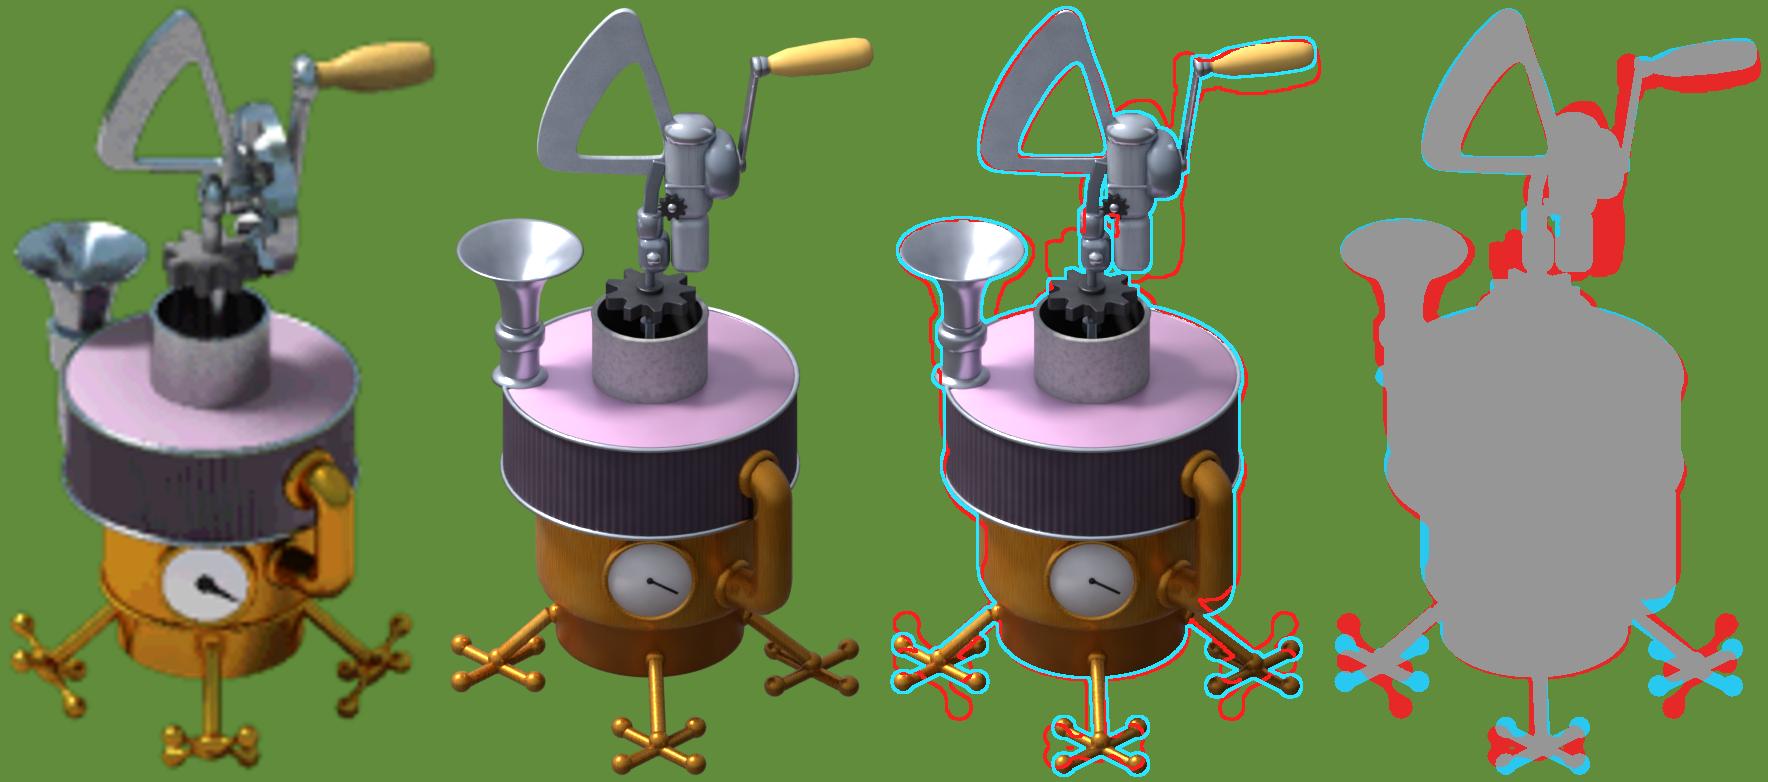
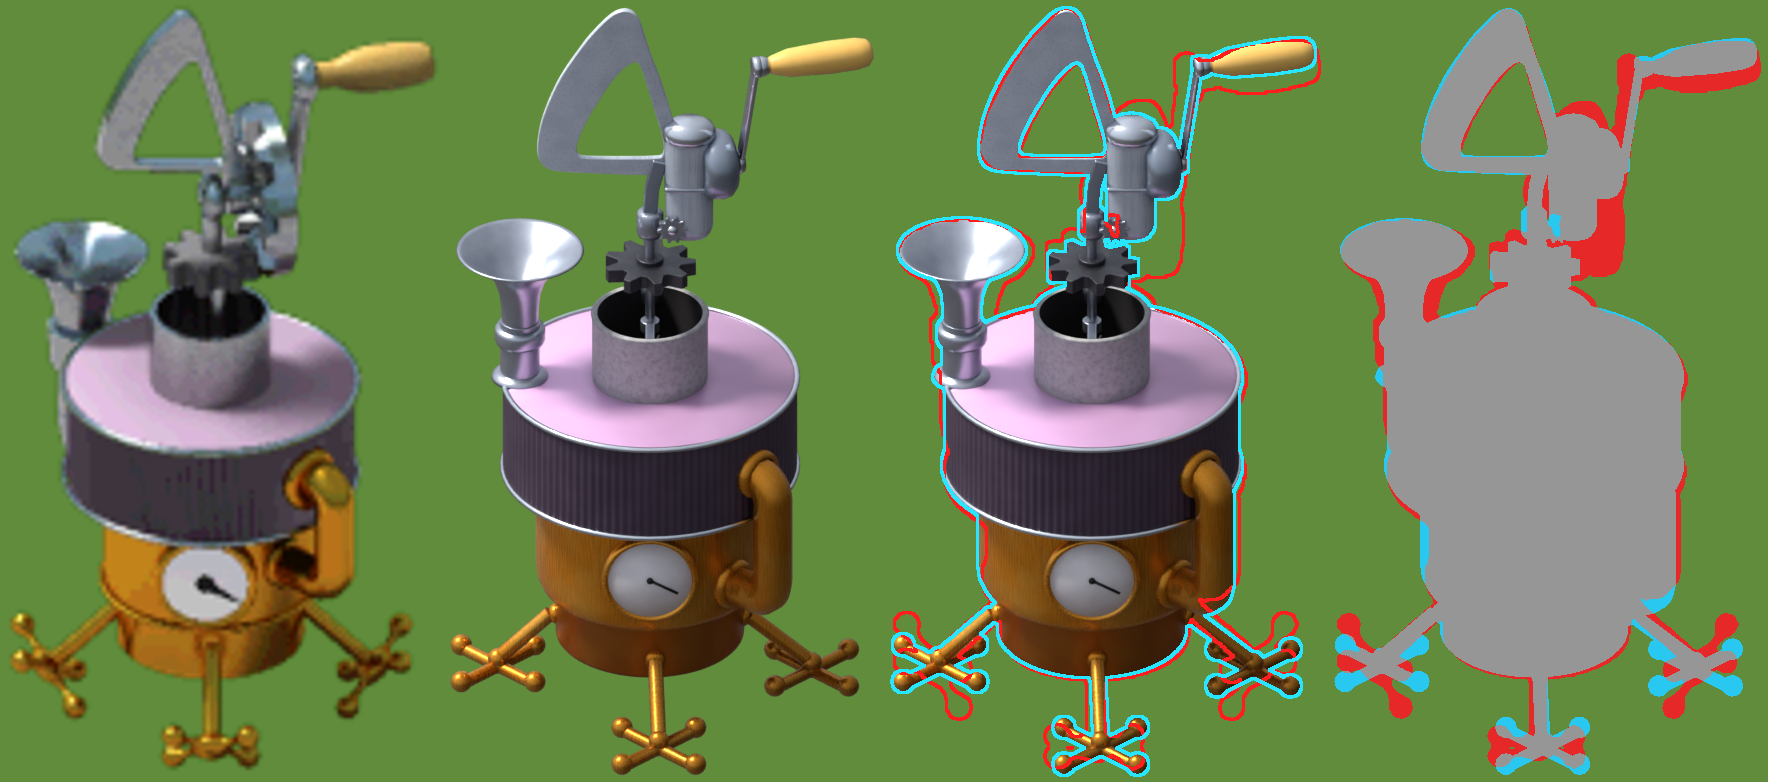
Hatchery 3D v1 (WIP, fix pass): L2 one chunky housing down to the pinion, pinion up where Flash's dark gear is; clean levels sheet option
Claude-Session: https://claude.ai/code/session_01YTHpn2B3GQv2nWyfBMAwkm

diff --git a/art-samples/buildings-b6/hatchery-v1/hatch.py b/art-samples/buildings-b6/hatchery-v1/hatch.py
@@ -912,23 +912,18 @@ def beater():
     # and a small gear on its front; the crank's axle comes out of its right side through a domed wheel cover. Two
     # short rods hold it on the spindle's top bearing.
     fr = P(-45, 1, 0)                       # toward the camera
-    hc = U2(0.98, 2.85) + fr * 0.1         # the housing's foot
-    box("gearbox", (1.2, 0.95, 2.75), hc, M["brushed"], rot=(0, 0, 45), bevel=0.45, segs=6)
-    box("gearboxlow", (0.95, 0.8, 1.65), U2(1.0, 1.3) + fr * 0.1, M["brushed"], rot=(0, 0, 45), bevel=0.3, segs=4)
+    hc = U2(0.98, 2.2) + fr * 0.1          # the housing's foot
+    box("gearbox", (1.2, 0.95, 3.35), hc, M["brushed"], rot=(0, 0, 45), bevel=0.45, segs=6)
     ob = lathe("gearboxcap", [(0.0, -0.3), (0.66, -0.3), (0.68, -0.12), (0.6, 0.06), (0.4, 0.2), (0.0, 0.25)],
-               hc + Vector((0, 0, 2.6)), M["chrome"], verts=32)
+               hc + Vector((0, 0, 3.2)), M["chrome"], verts=32)
     ob.scale = (1.0, 0.82, 1.0)
     ob.rotation_euler = (0, 0, math.radians(45))
-    box("gearboxband", (1.24, 0.99, 0.14), hc + Vector((0, 0, 1.0)), M["steel"], rot=(0, 0, 45), bevel=0.4, segs=5)
+    box("gearboxband", (1.24, 0.99, 0.14), hc + Vector((0, 0, 1.55)), M["steel"], rot=(0, 0, 45), bevel=0.4, segs=5)
     q = fr.to_track_quat("Z", "Y").to_euler()
     gc = hc + fr * 0.44 + Vector((0, 0, 0.5)) - P(45, 0.42, 0)      # a small gear peeping out at the lower left
-    gear("gearboxgear", 0.38, 10, 0.16, gc, M["gear"], q, tooth=0.24)
+    gear("gearboxgear", 0.38, 10, 0.16, gc, M["steel"], q, tooth=0.24)
     ob = lathe("gearboxgearhub", [(0.0, -0.05), (0.13, -0.05), (0.13, 0.1), (0.08, 0.14), (0.0, 0.15)], gc,
                M["chrome"], verts=16)
-    ob.rotation_euler = q
-    box("gearboxblock", (0.8, 0.85, 1.05), U2(0.1, 1.25), M["fchrome"], rot=(0, 0, 45), bevel=0.3, segs=4)
-    ob = lathe("gearboxknob", [(0.0, -0.05), (0.17, -0.05), (0.2, 0.06), (0.14, 0.16), (0.0, 0.18)],
-               U2(0.1, 1.8) + fr * 0.4, M["chrome"], verts=16)
     ob.rotation_euler = q
     ob = lathe("gearboxcover", [(0.0, -0.62), (0.72, -0.62), (0.86, -0.42), (0.9, -0.12), (0.85, 0.08), (0.7, 0.22),
                                 (0.4, 0.29), (0.0, 0.3)], U2(S.WHEEL2_U, S.WHEEL2_Z), M["fchrome"], verts=40)
@@ -951,10 +946,10 @@ def beater():
     def pin(hub):
         gear("pinion", S.PINION_R, 9, 0.36, (0, 0, 0), M["gear"], (0, 0, 0), tooth=0.3, parent=hub)
         cyl("pinionhub", 0.34, 0.6, (0, 0, -0.3), M["gear"], parent=hub, verts=16)
-        tube("spindle", [(0, 0, -3.25), (0, 0, 1.05)], 0.12, M["steel"], parent=hub, verts=12)
+        tube("spindle", [(0, 0, -4.05), (0, 0, 1.05)], 0.12, M["steel"], parent=hub, verts=12)
         for k in range(3):                       # the beater blades down in the sleeve, under the bridge
             a = 2 * math.pi * k / 3
-            box(f"spindleblade{k}", (0.85, 0.05, 0.7), (0.45 * math.cos(a), 0.45 * math.sin(a), -3.15), M["steel"],
+            box(f"spindleblade{k}", (0.85, 0.05, 0.7), (0.45 * math.cos(a), 0.45 * math.sin(a), -3.95), M["steel"],
                 rot=(0, 0, math.degrees(a)), bevel=0.01, parent=hub)
     e, hub = vspin("pinion", (0, 0, ZS + S.PINION_Z), pin)
     MOVING.append(hub)

diff --git a/art-samples/buildings-b6/hatchery-v1/post.py b/art-samples/buildings-b6/hatchery-v1/post.py
@@ -113,9 +113,10 @@ def scr(v):
     return S.ORIGIN[0] + sx * (v[0] + v[1]), S.ORIGIN[1] + sy * (v[0] - v[1]) - sz * v[2]
 
 
-def levels():
+def levels(clean=False):
     """The three looks at one scale and one crop: Flash on top, 3D below; on the 3D, dashed lines through the shared
-    parts (each at its own height on that level: levels 2 and 3 lift the body and every part on it)."""
+    parts (each at its own height on that level: levels 2 and 3 lift the body and every part on it). clean: no lines,
+    crosses or note (the owner's copy)."""
     size = frame3d(1, 0).size
     k = size[0] / (fref.FRAME[2] - fref.FRAME[0])
     boxes = [box_of(lv, size) for lv in fref.LEVELS]
@@ -127,8 +128,9 @@ def levels():
     d = ImageDraw.Draw(out)
     d.text((12, 8), "Hatchery, levels 1, 2, 3 at one scale: Flash (top), 3D (bottom)", fill=(255, 255, 255),
            font=font(26))
-    d.text((12, 44), "Red crosses on the 3D: parts fixed to the body; L2 and L3 lift the body and every part on it. "
-           "Blue dashes: the body's axis", fill=(200, 200, 200), font=font(22))
+    if not clean:
+        d.text((12, 44), "Red crosses on the 3D: parts fixed to the body; L2 and L3 lift the body and every part on it. "
+               "Blue dashes: the body's axis", fill=(200, 200, 200), font=font(22))
     rows = (("Flash", lambda lv: flash(lv, 0, size)), ("3D", lambda lv: on_grass(frame3d(lv, 0))))
     ys = [top + r * (h + lab + gap) for r in range(2)]
     for i, lv in enumerate(fref.LEVELS):
@@ -137,7 +139,7 @@ def levels():
             d.text((x, y + 6), f"Level {lv}  {name}", fill=(255, 255, 255), font=font(24))
             out.paste(get(lv).crop(box).convert("RGB"), (x, y + lab))
     y3 = ys[1] + lab
-    for i, lv in enumerate(fref.LEVELS):
+    for i, lv in enumerate(fref.LEVELS if not clean else ()):
         x0 = gap + i * (w + gap)
         ax = x0 + (S.ORIGIN[0] - fref.FRAME[0]) * k - box[0]
         for yy in range(top + lab, y3 + h, 20):
@@ -204,6 +206,7 @@ if __name__ == "__main__":
         print(anim(lv), "changed px (all, outside moving parts):", still_check(lv))
     elif cmd == "levels":
         levels().save(HERE / "hatchery-levels-row.png")
+        levels(clean=True).save(HERE / "hatchery-levels-clean.png")
     elif cmd == "motion":
         lv = int(sys.argv[2])
         motion(lv).save(HERE / f"L{lv}-motion.png")

diff --git a/art-samples/buildings-b6/hatchery-v1/stack.py b/art-samples/buildings-b6/hatchery-v1/stack.py
@@ -49,7 +49,7 @@ FOOT_D = (4.2, 4.05, 3.8)        # each foot's middle from the axis, on the grou
 CROSS_L, CROSS_W = 1.3, 0.17     # a foot's arms (half length, bar radius), along world X and Y; ball ends
 
 # level 2: the egg-beater drive on the sleeve
-PINION_Z, PINION_R = 0.5, 1.15  # above the sleeve's top
+PINION_Z, PINION_R = 1.3, 1.15  # above the sleeve's top (Flash's dark gear sits clear above the rim)
 WHEEL2_U, WHEEL2_Z, WHEEL2_R = 1.85, 4.3, 2.45   # the crown wheel: out along bearing 45 from the axis, height above
                                                  # the sleeve's top, radius
 WHEEL2_TH = 60.0                 # the axle's bearing
